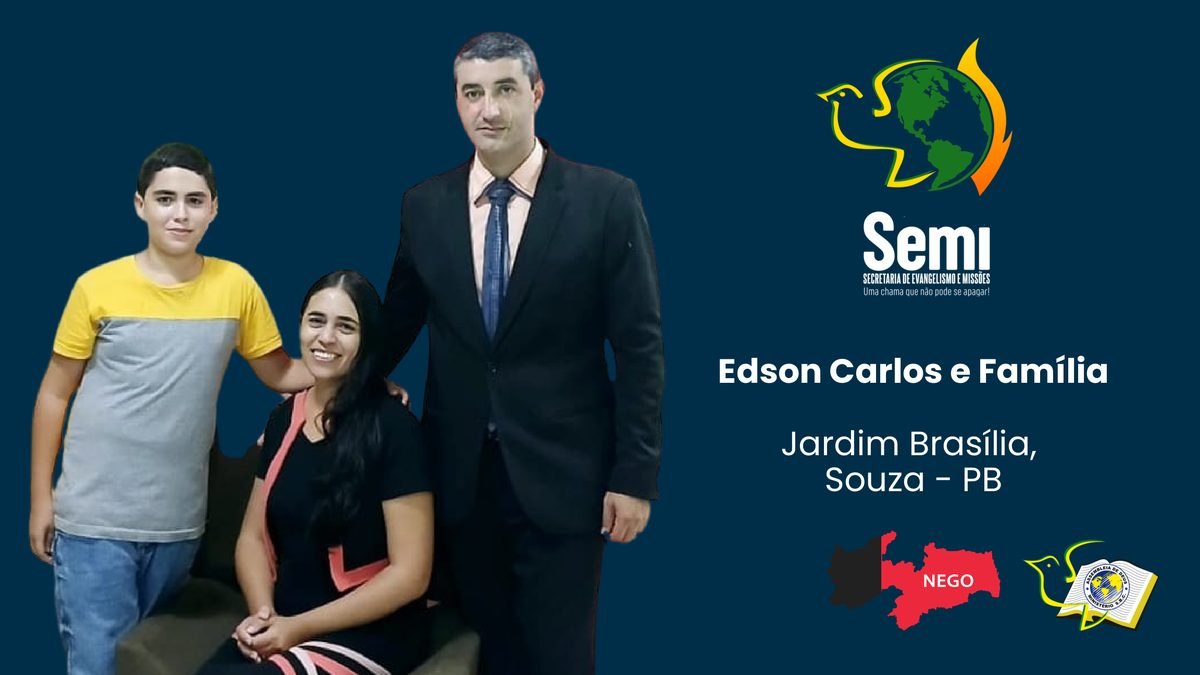
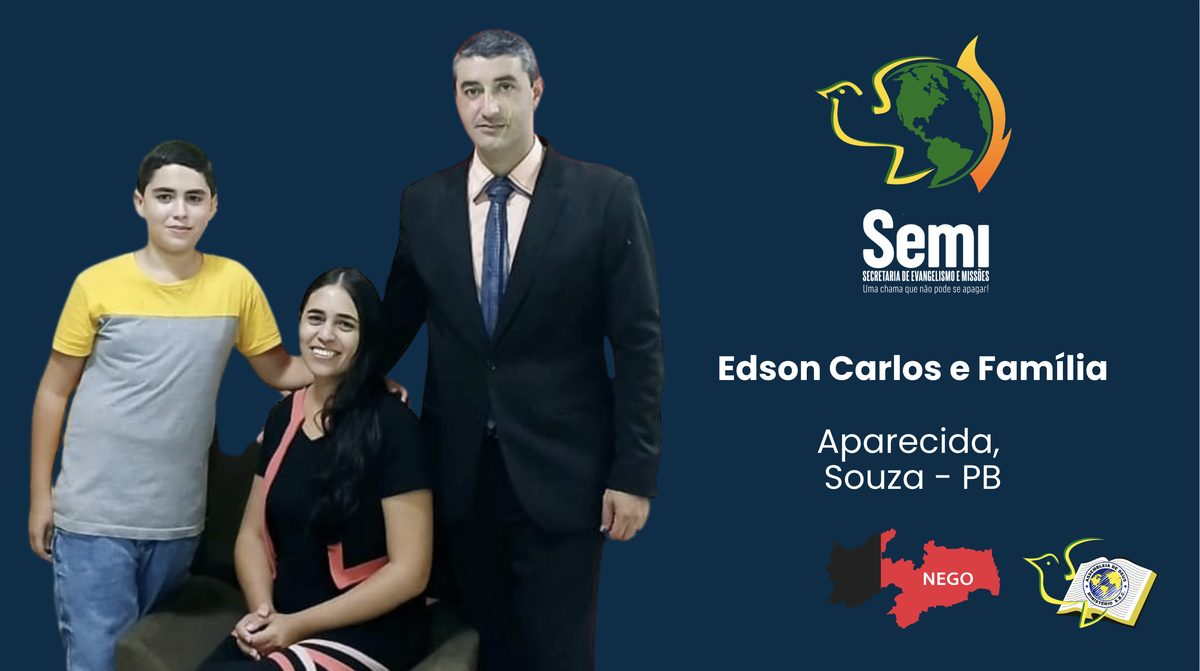
Atualiza card do missionário Edson Carlos: nova imagem + cidade Aparecida, Souza-PB

diff --git a/index.html b/index.html
@@ -546,7 +546,7 @@ h3.sub{font-family:var(--display);font-size:clamp(20px,3vw,28px);line-height:1.1
         <figure class="miss-card"><img src="miss-2.jpg" alt="Cleiton e Família — Jardim Iguatemi, SP" loading="lazy"></figure>
         <figure class="miss-card"><img src="miss-3.jpg" alt="Edmar Ramos e Silmara — Cambuí, MG" loading="lazy"></figure>
         <figure class="miss-card"><img src="miss-4.jpg" alt="Luciano Ribeiro e Família — Salinas, BA" loading="lazy"></figure>
-        <figure class="miss-card"><img src="miss-5.jpg" alt="Edson Carlos e Família — Jardim Brasília, Sousa, PB" loading="lazy"></figure>
+        <figure class="miss-card"><img src="miss-5.jpg" alt="Edson Carlos e Família — Aparecida, Souza, PB" loading="lazy"></figure>
         <figure class="miss-card"><img src="miss-6.jpg" alt="Dyogo Alves e Família — Cerquilho, SP" loading="lazy"></figure>
         <figure class="miss-card"><img src="miss-7.jpg" alt="Wagner e Eliana — Batatais, SP" loading="lazy"></figure>
         <figure class="miss-card"><img src="miss-8.jpg" alt="Nascimento Monteiro — Presídios e Leprosários" loading="lazy"></figure>
